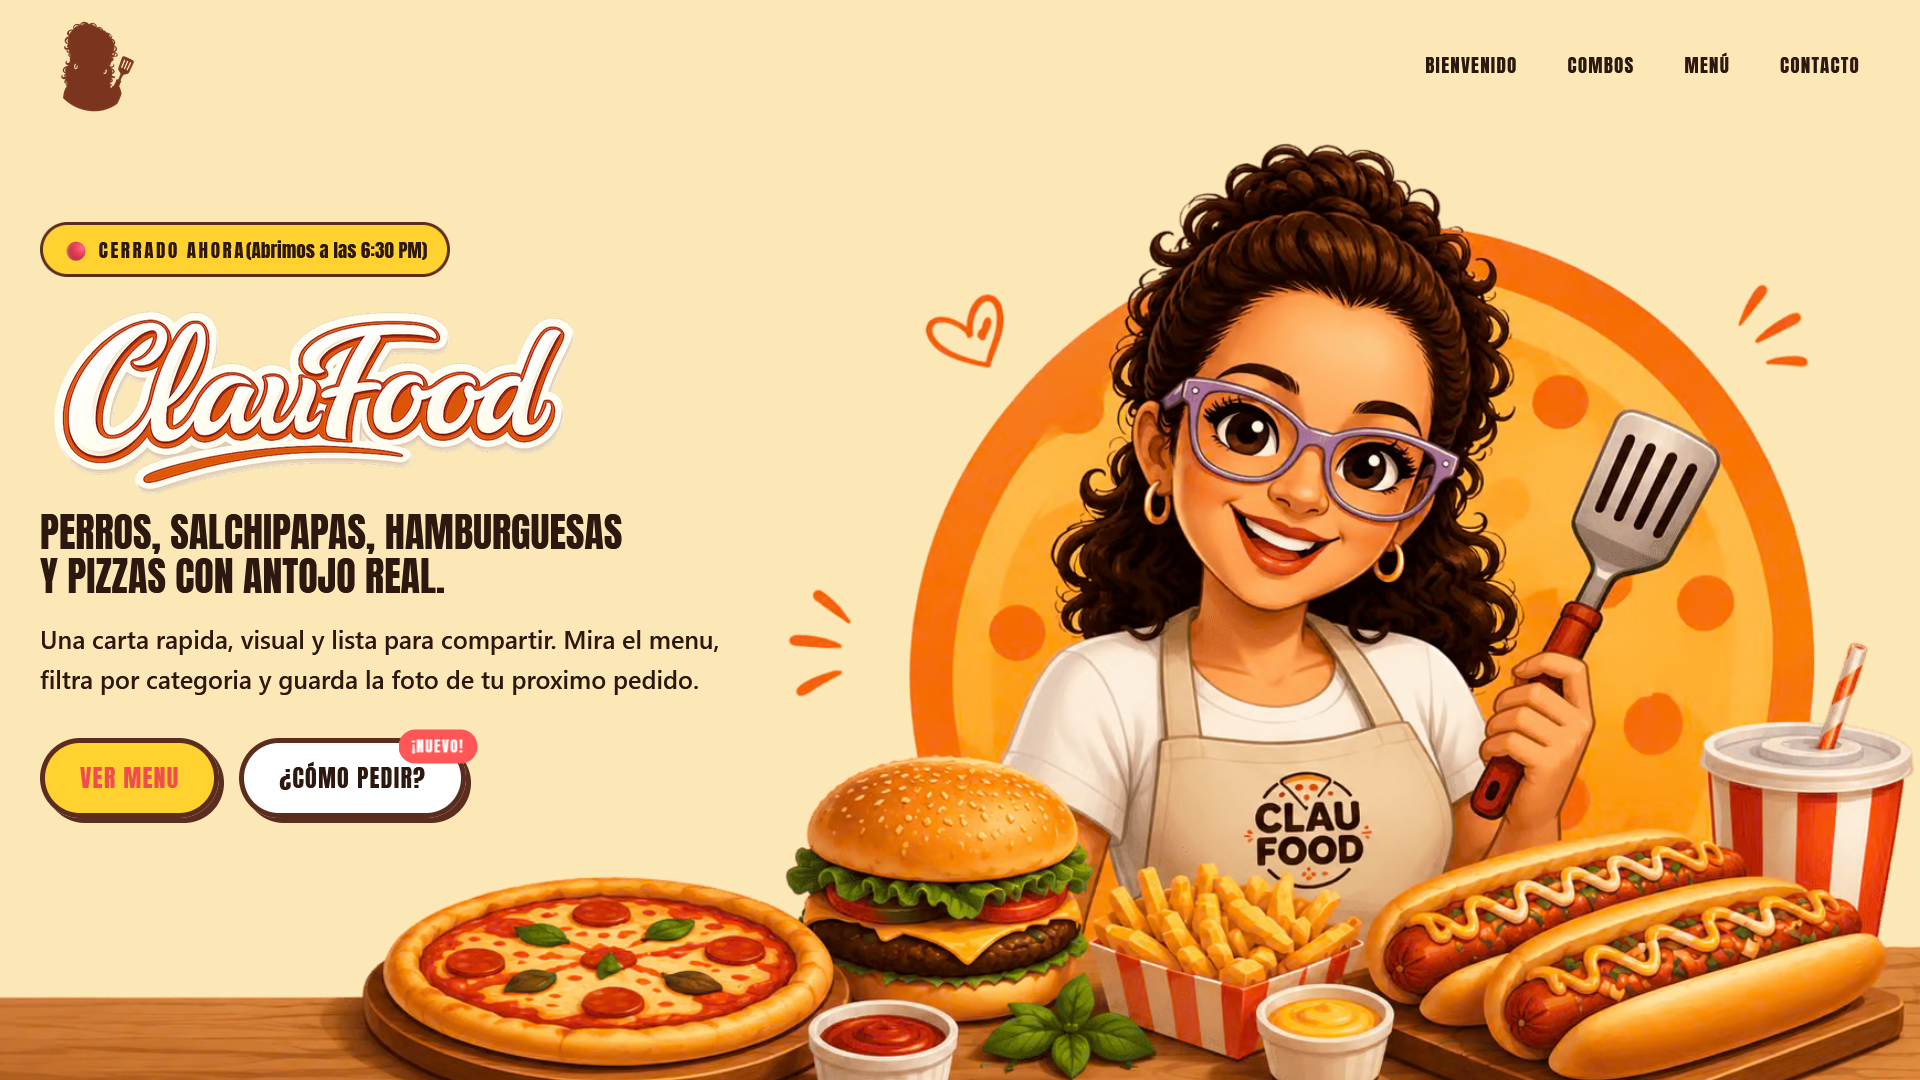
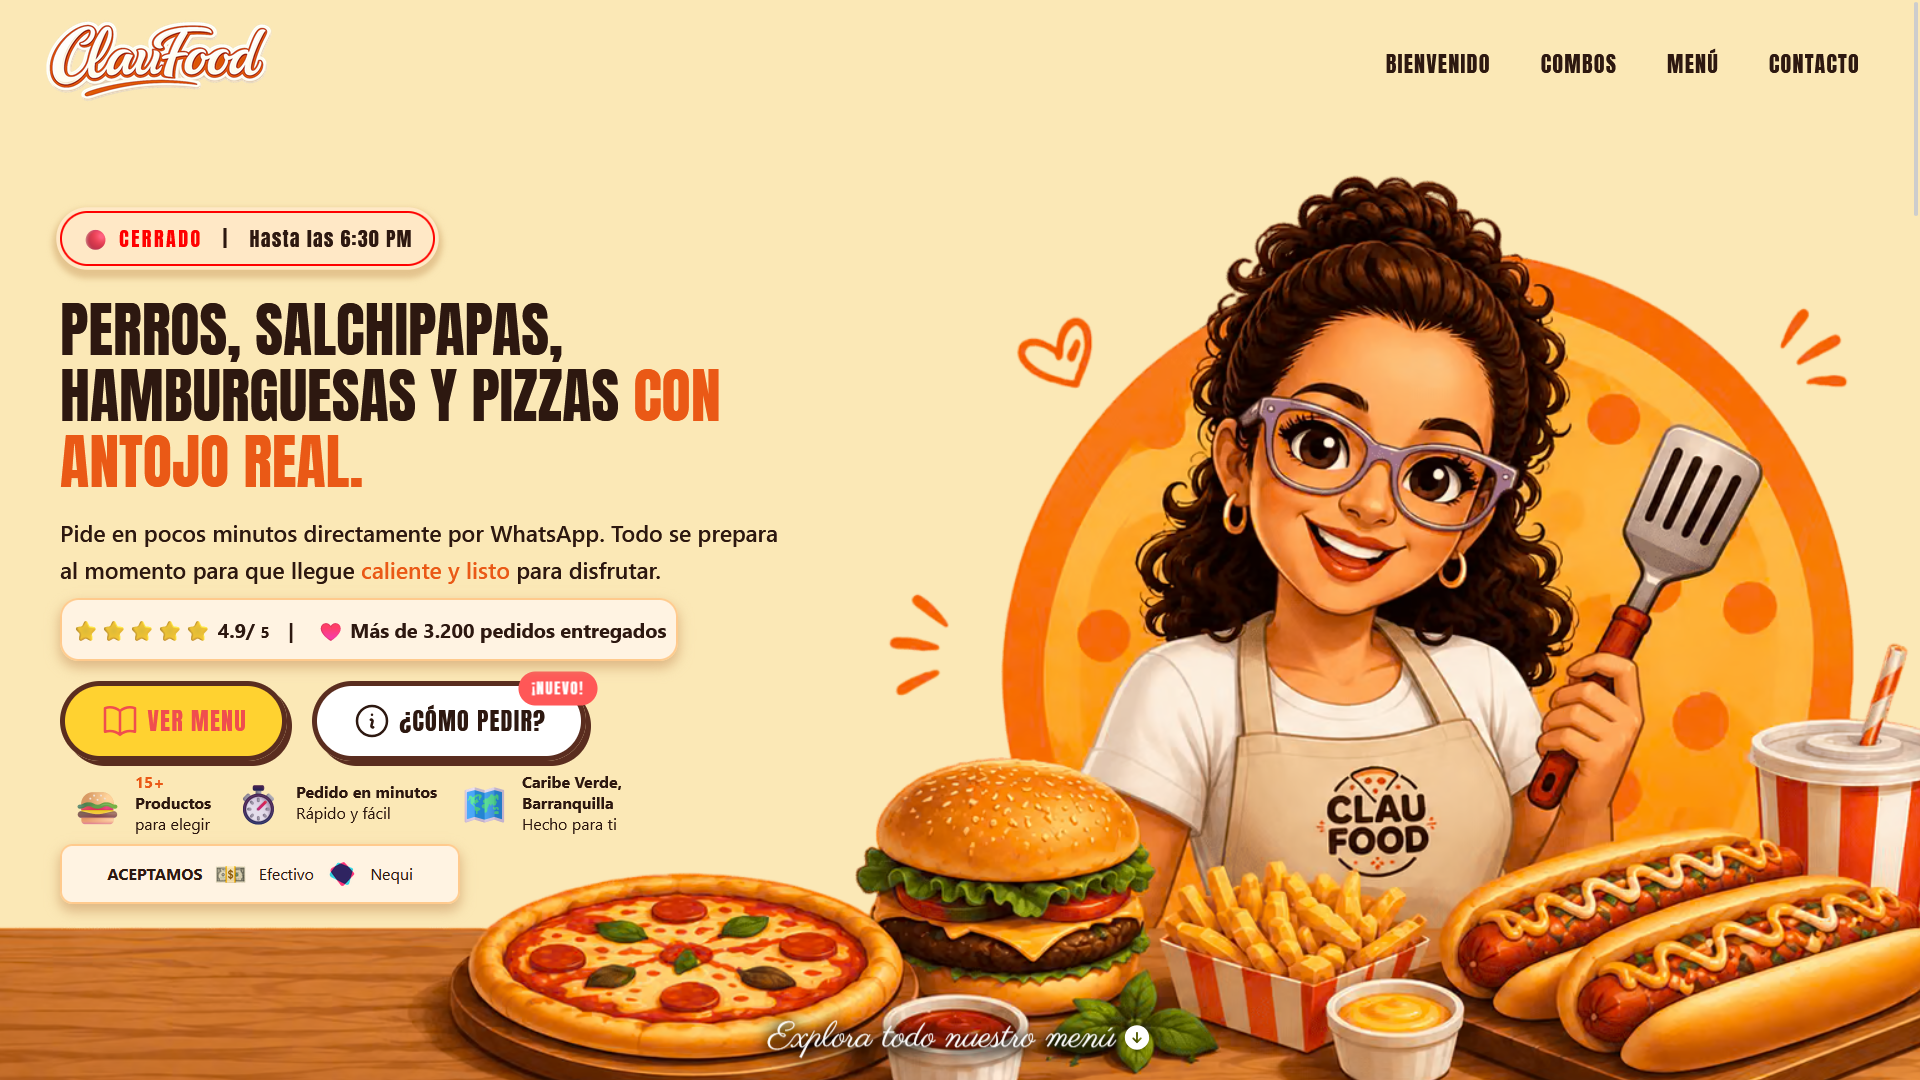
feat: preparar rama para merge

diff --git a/menu.html b/menu.html
@@ -113,16 +113,11 @@
             >
                 <img
                     class="header__logo"
-                    src="https://res.cloudinary.com/dakne3w9w/image/upload/f_auto,q_auto,dpr_auto,w_auto,c_limit/v1783369111/claufood-icon-brown_zo4ftr.png"
+                    src="https://res.cloudinary.com/dakne3w9w/image/upload/f_auto,q_auto,dpr_auto,w_auto,c_limit/v1783290163/claufood-text-logo_j4ncy0.png"
                     alt="Clau Food Logo"
                 >
             </a>
         </div>
-        <img
-            class="hero__title"
-            src="https://res.cloudinary.com/dakne3w9w/image/upload/f_auto,q_auto,dpr_auto,w_auto,c_limit/v1783290163/claufood-text-logo_j4ncy0.png"
-            alt=""
-        >
         <button
             class="header__burger"
             aria-controls="header-overlay"

diff --git a/index.html b/index.html
@@ -313,6 +313,7 @@
             id="combos"
         >
             <h2 class="combos__title">
+                img
                 Nuestros Combos
             </h2>
             <p class="combos__text">